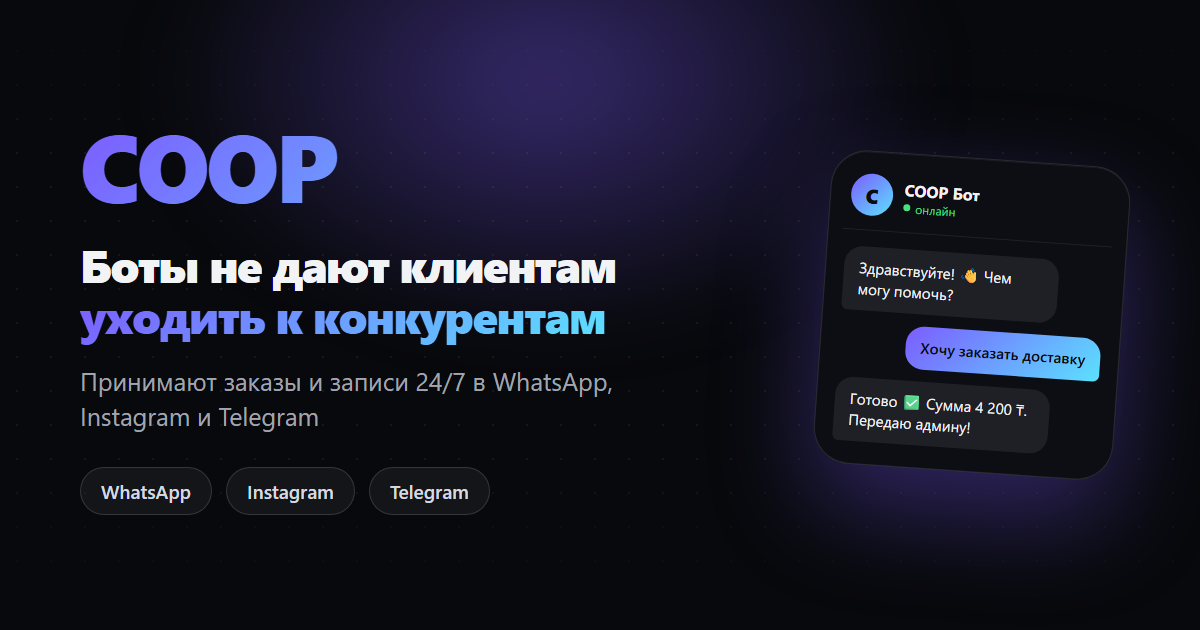
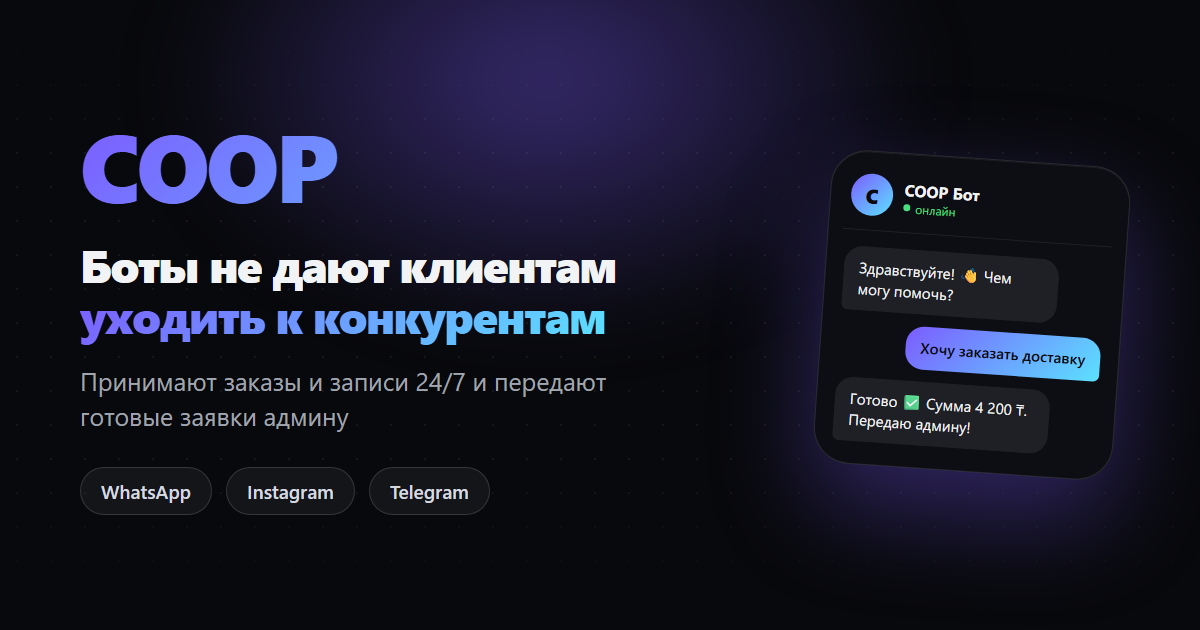
fix OG cover: remove duplicate channel names from subtext

Changed region(s): [[0.0617, 0.6333, 0.3083, 0.6937], [0.4008, 0.573, 0.5242, 0.6333]]

diff --git a/og-cover-source.html b/og-cover-source.html
@@ -64,7 +64,7 @@ body{
   <div class="left">
     <div class="brand">COOP</div>
     <div class="headline">Боты не дают клиентам<br><span class="g">уходить к конкурентам</span></div>
-    <div class="sub">Принимают заказы и записи 24/7 в WhatsApp, Instagram и Telegram</div>
+    <div class="sub">Принимают заказы и записи 24/7 и передают готовые заявки админу</div>
     <div class="chips">
       <div class="chip">WhatsApp</div>
       <div class="chip">Instagram</div>